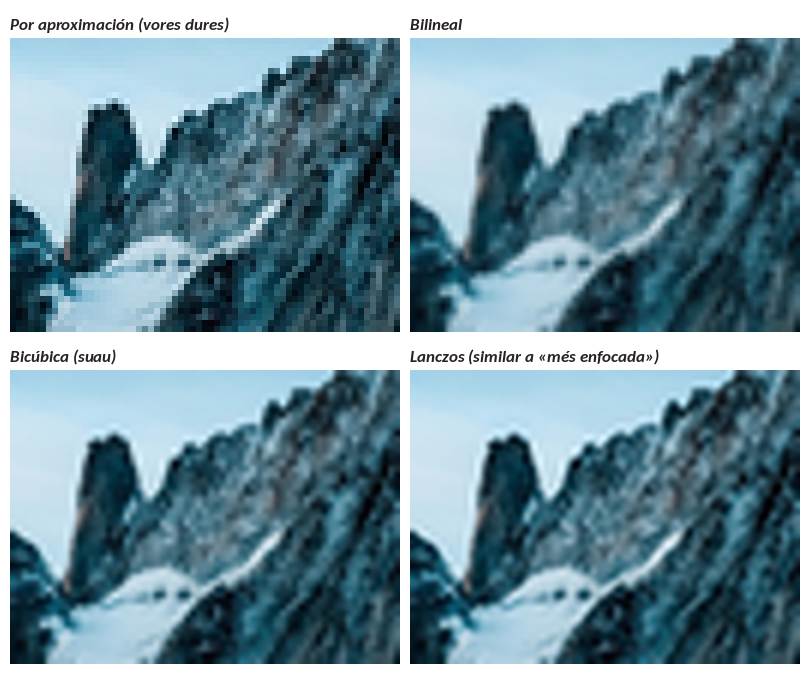
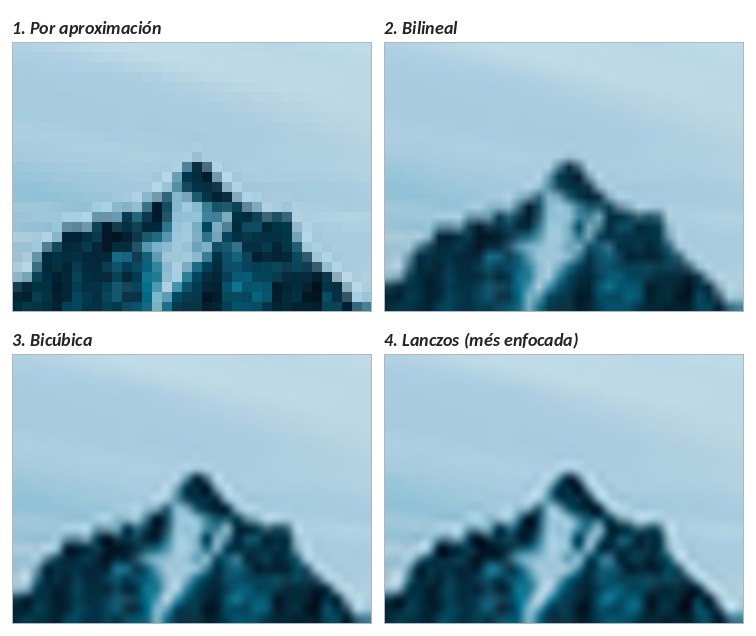
Remuestrear: comparativa més clara i taula d'en què fixar-se
Claude-Session: https://claude.ai/code/session_01V9QNL8JxKnj7aBHtc3t5Tm

diff --git a/md/remuestrear-repas.md b/md/remuestrear-repas.md
@@ -10,12 +10,27 @@ Aquesta pàgina és el **repàs del Remuestrear**, que no vam poder treballar a 
 
 ![Comparativa de quatre mètodes d'ampliació de la mateixa imatge petita](img/remuestrear-comparativa.png)
 
-La imatge és un tros petit d'una foto (65 × 49 píxels) **ampliat 6 vegades** amb quatre mètodes. Aquesta comparativa està feta amb un programa de càlcul d'imatges (Python), **no amb Photoshop**: serveix per veure la **idea** de cada mètode. Els mètodes de Photoshop tenen els seus propis noms i algoritmes, i els resultats no seran idèntics.
+La imatge és el **cim d'una muntanya** (36 × 27 píxels, molt petita) **ampliada 10 vegades** amb quatre mètodes. Està feta amb un programa de càlcul d'imatges (Python), **no amb Photoshop**: serveix per veure la **idea** de cada mètode. Els mètodes de Photoshop tenen els seus propis noms i algoritmes, i els resultats no seran idèntics.
 
-- **Por aproximación (bordes definidos):** copia els píxels sense barrejar-los. Es veuen els **quadradets**, però les vores es mantenen dures. Va bé per a icones o píxel art.
-- **Bilineal:** barreja els píxels veïns. El resultat és suau i una mica **borrós**.
-- **Bicúbica:** també suavitza, però manté millor les transicions de to.
-- **Lanczos:** manté més la sensació de **nitidesa** a les vores.
+## 🔍 En què t'has de fixar a cada una
+
+**Fixa't sempre en la mateixa zona: la vora del cim contra el cel.** Allà és on es nota la diferència, perquè hi ha un canvi brusc de fosc a clar.
+
+| Mètode | 👀 Què veus a la vora del cim | 🧠 Què fa |
+|---|---|---|
+| **1. Por aproximación** | **Quadradets** ben marcats, amb les vores dures i esglaonades. No hi ha cap tó intermedi | Copia cada píxel tal qual, sense barrejar |
+| **2. Bilineal** | La vora és **la més borrosa**. El cim perd contrast i els detalls es difuminen | Fa la mitjana dels 4 píxels veïns |
+| **3. Bicúbica** | **Més suau que els quadradets** i amb transicions de to més naturals. La vora és una mica més definida que a la Bilineal | Mira els 16 píxels veïns i fa una mitjana més intel·ligent |
+| **4. Lanczos** | La vora és **la més marcada** i es nota més contrast entre el cim i el cel. Si ampliem molt, pot aparèixer una **aurèola** clara al voltant de les vores | Fa servir encara més píxels veïns i accentua el contrast de les vores |
+
+⚠ Les diferències entre els mètodes **2, 3 i 4 són subtils**, perquè tots tres suavitzen. Per veure-les, **amplia el dibuix al 200 %** o compara'ls un al costat de l'altre i mira només la vora del cim. La gran diferència és entre el **1** (quadradets) i la resta (suavitzats).
+
+### 📋 Resum
+
+- **Quadradets i vores dures →** *Por aproximación*. Útil per a icones i píxel art.
+- **Suau i una mica borrós →** *Bilineal*.
+- **Suau, equilibrat →** *Bicúbica*.
+- **Més nítid, però amb risc d'aurèoles →** *Lanczos* (a Photoshop s'assembla a **Bicúbica más enfocada**).
 
 La conclusió és que **cap mètode afegeix detall real**. Només canvia la manera de repartir els píxels nous.
 
